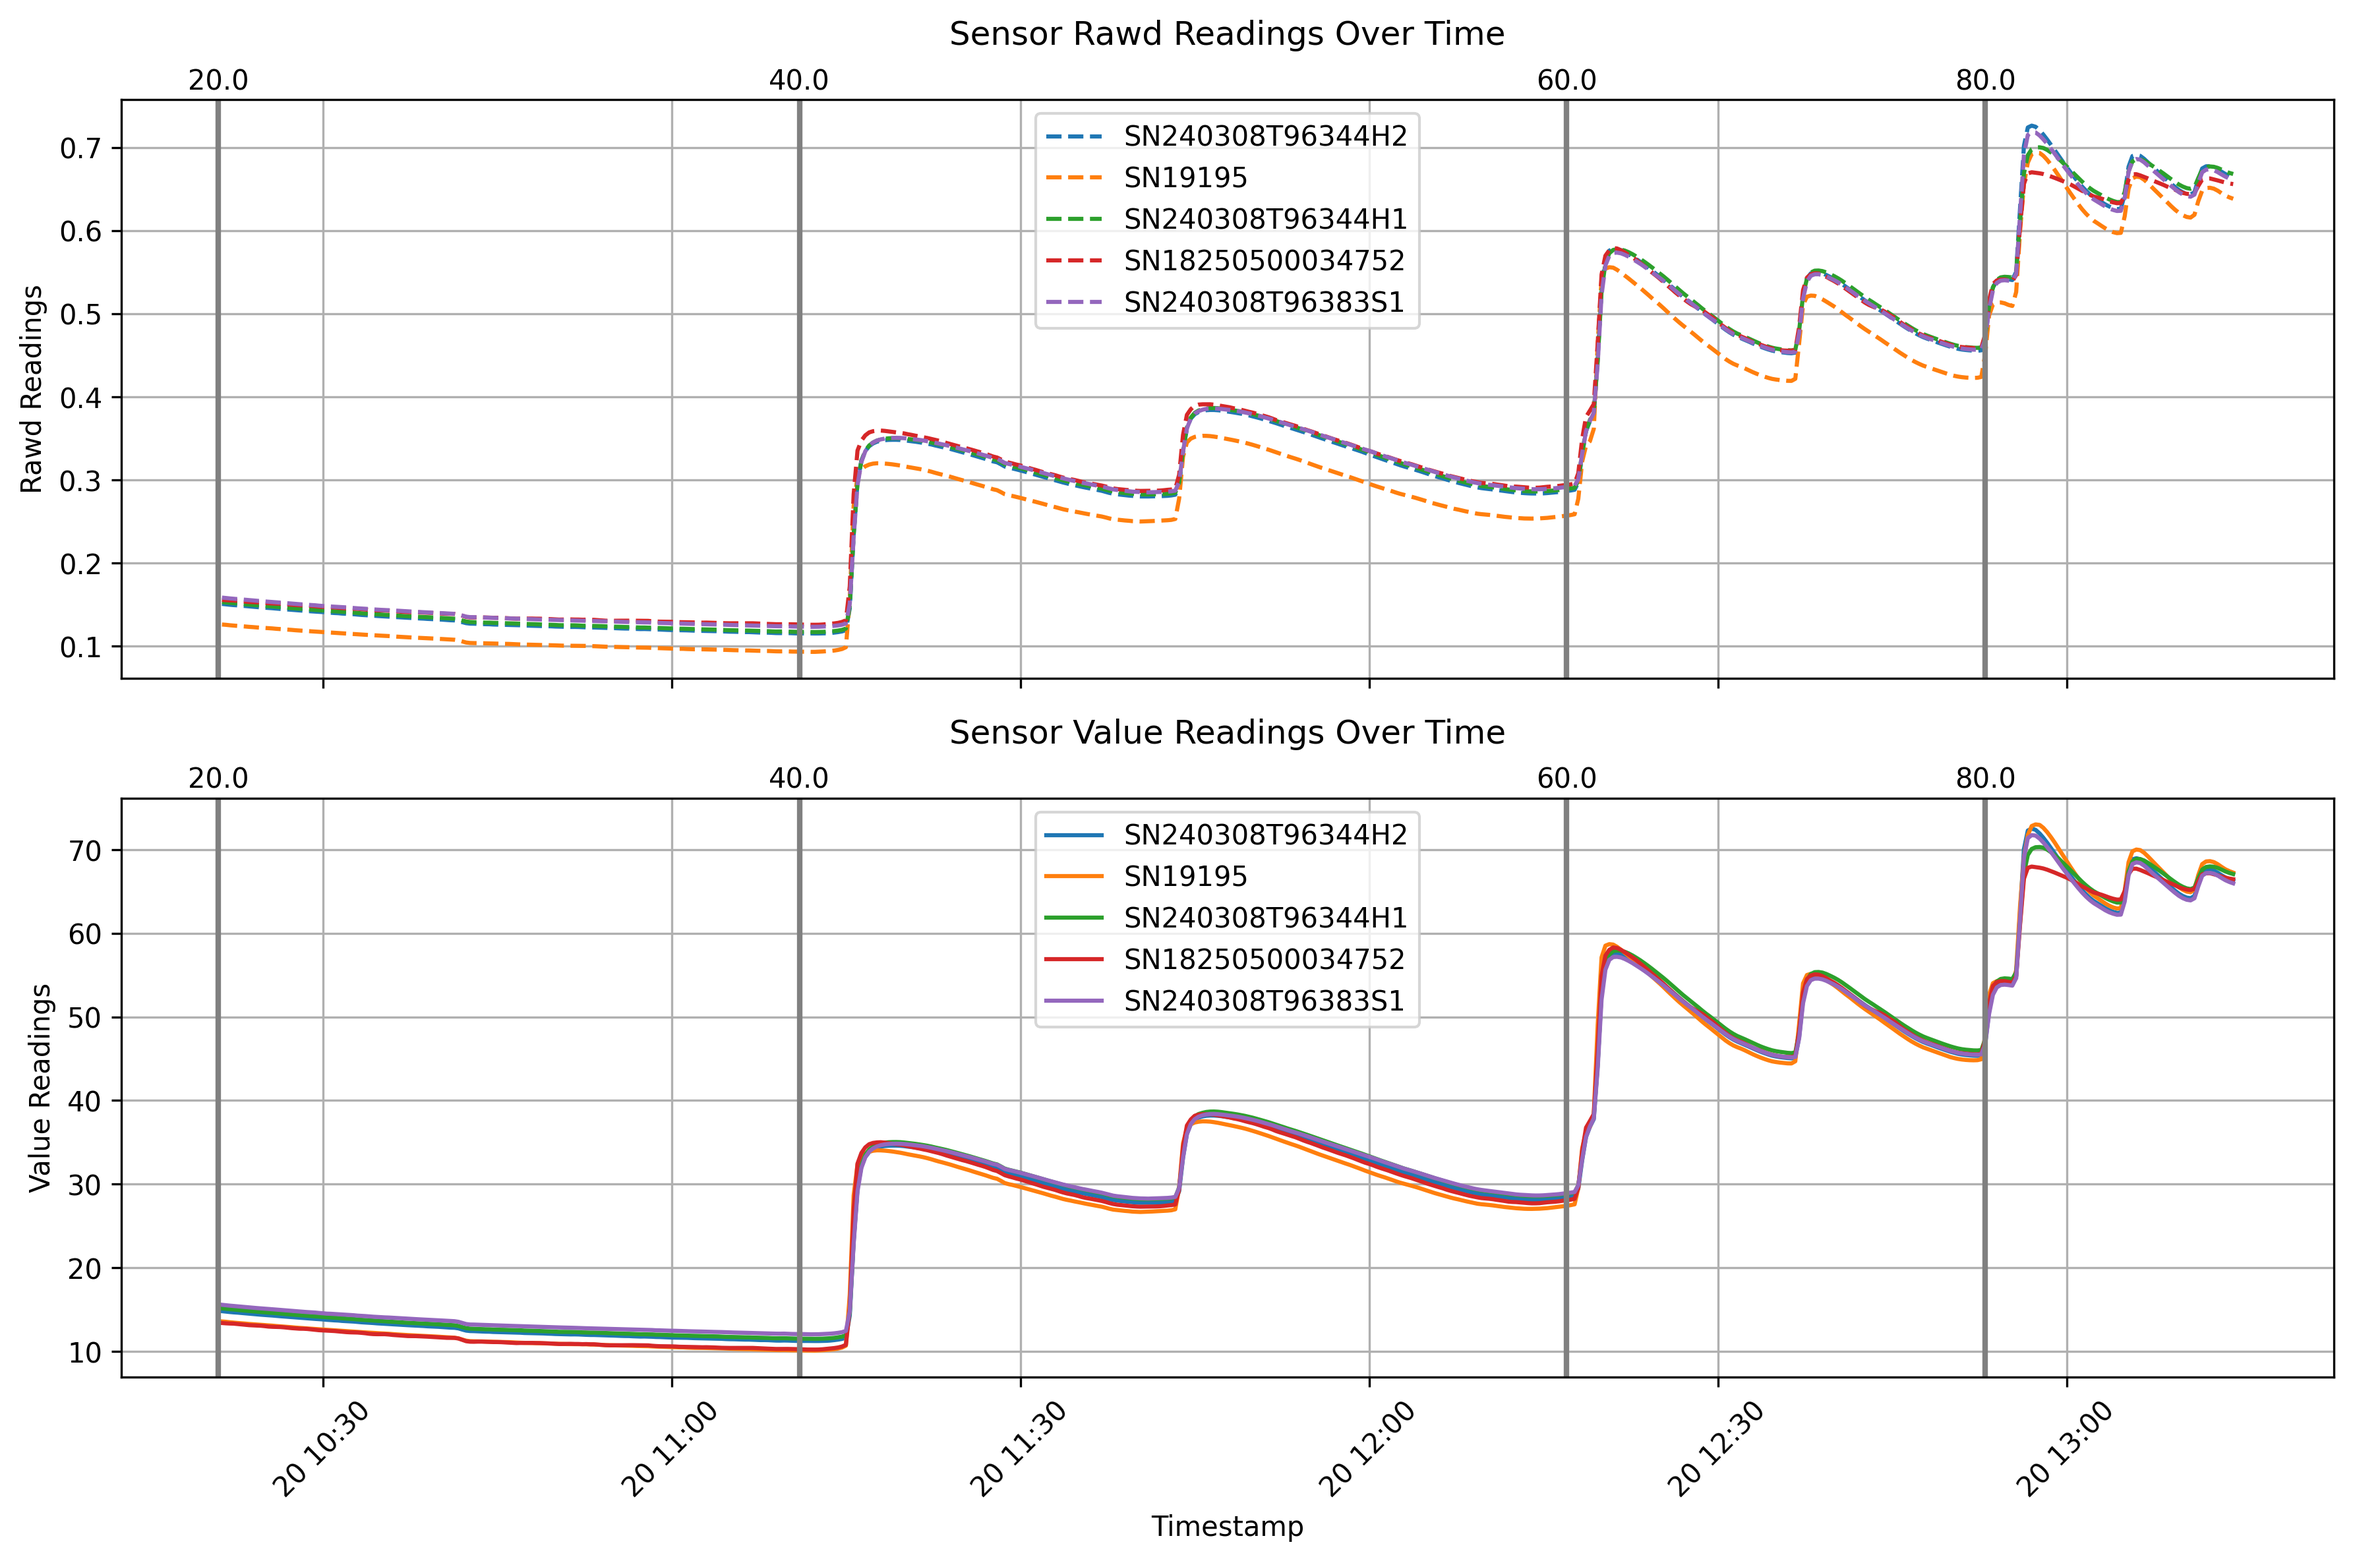
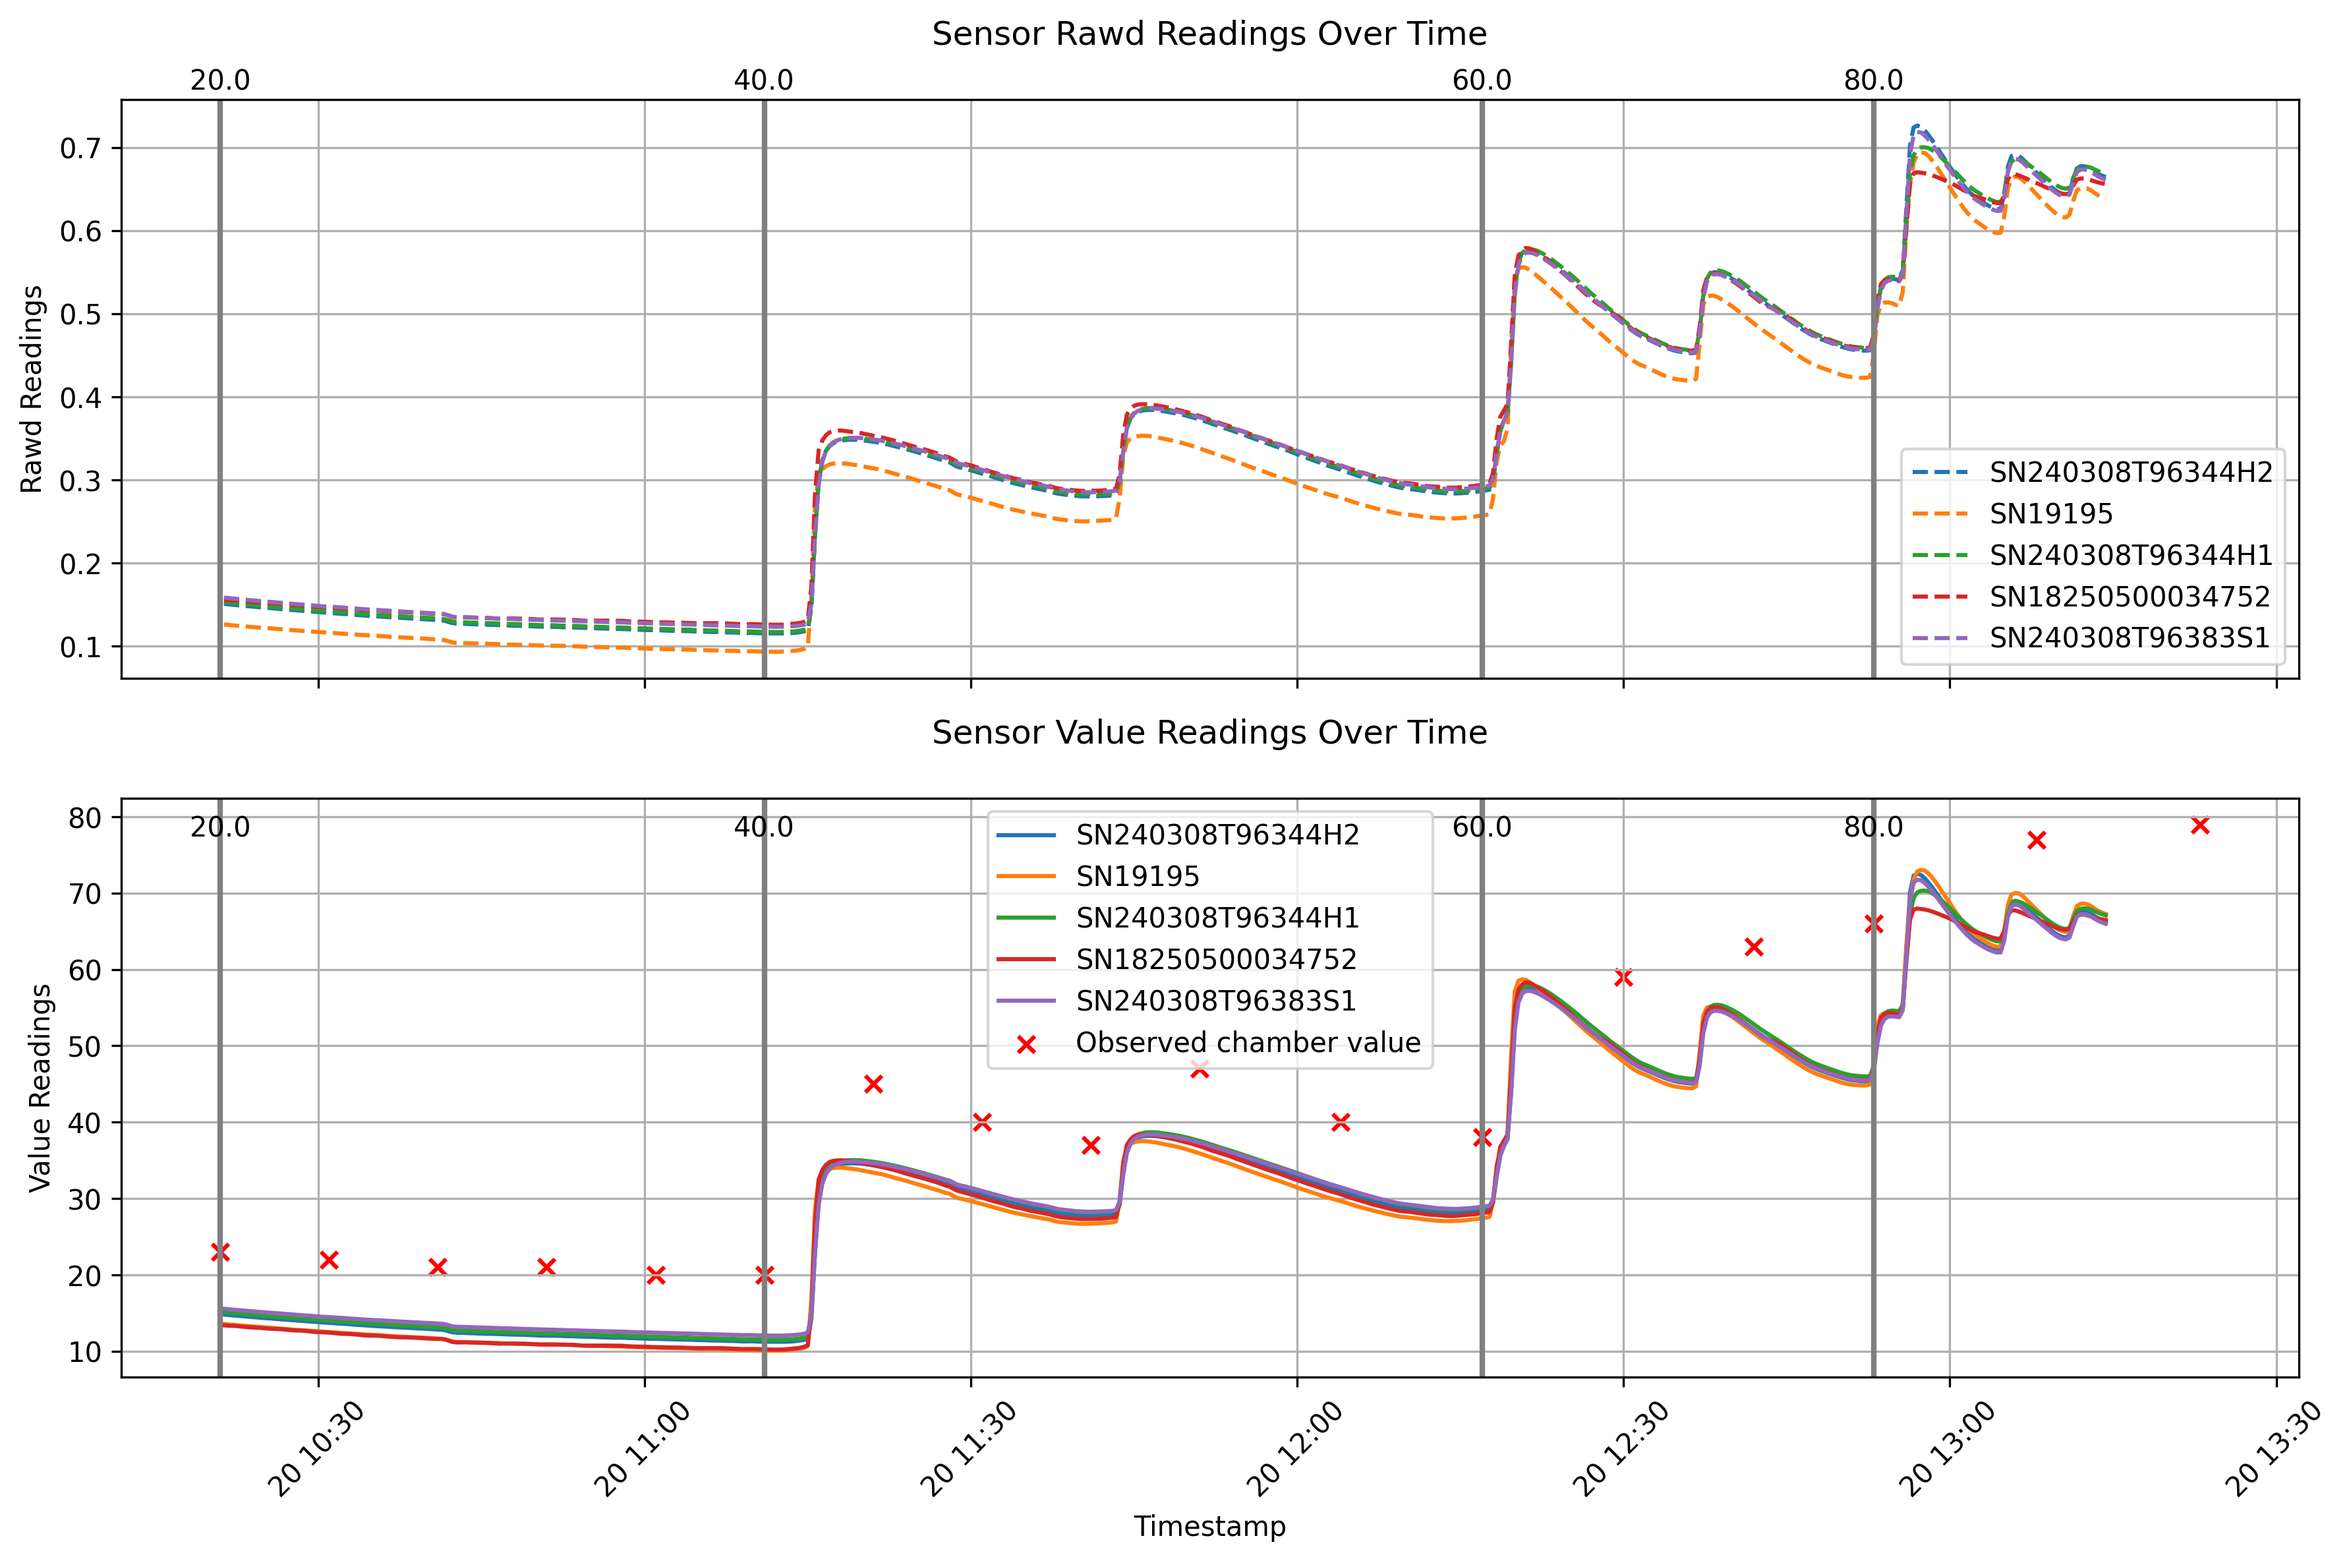
Add scatter of observations

diff --git a/vis.py b/vis.py
@@ -42,6 +42,10 @@ sensors = df["Serial"].unique()  # For later in visualizing
 setpoints_df = pd.read_csv("setpoints.csv", dtype={"sp": float, "time": str})
 setpoints_df["Datetime"] = setpoints_df["time"].apply(lambda x: datetime.strptime(f"{date_part} {x}:00", "%d-%b-%Y %H:%M:%S"))
 
+# Handle the observations (TT Input2 (humidity), time HH:MM)
+obs_df = pd.read_csv("obs.csv",  dtype={"Input2": float, "time": str})
+obs_df["Datetime"] = obs_df["time"].apply(lambda x: datetime.strptime(f"{date_part} {x}:00", "%d-%b-%Y %H:%M:%S"))
+
 # Figure setup
 fig, axes = plt.subplots(nrows=2, ncols=1, figsize=(12, 8), sharex=True)
 
@@ -59,6 +63,7 @@ axes[0].grid()
 for sensor in sensors:
     subset = df[df["Serial"] == sensor]
     axes[1].plot(subset["Timestamp"], subset["Value"], label=f"{sensor}")
+axes[1].scatter(obs_df["Datetime"], obs_df["Input2"], label="Observed chamber value", color="red", marker="x")
 axes[1].set_ylabel("Value Readings")
 axes[1].set_title("Sensor Value Readings Over Time", pad=20)
 axes[1].set_xlabel("Timestamp")
